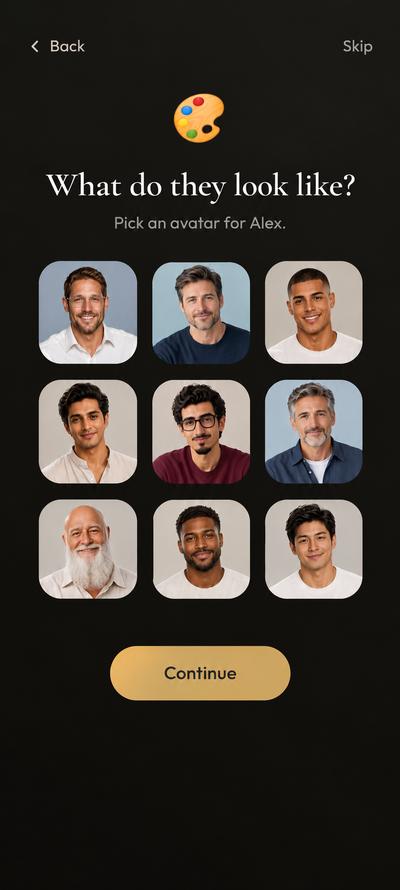
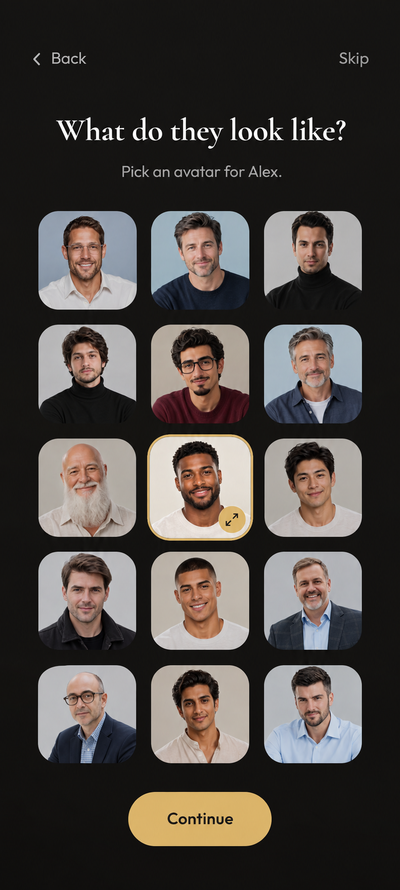
Use companion select screen in gallery and refresh marketing screenshots.
Replace the Beyond the conversation welcome phone with screen-companion-select-b and update attached app screen assets.

diff --git a/artifacts/mindness-launch/src/App.tsx b/artifacts/mindness-launch/src/App.tsx
@@ -281,7 +281,7 @@ function Home() {
           </div>
           <div className="gallery-stage reveal delay-1" aria-label="Mindness app screen preview">
             <div className="gallery-phone gallery-phone-welcome">
-              <Phone src={images.welcome} alt="Mindness welcome screen with talk, understand, and grow choices" />
+              <Phone src={images.companionSelectB} alt="Mindness companion selection screen" />
             </div>
             <div className="gallery-phone gallery-phone-practices">
               <Phone src={images.practices} alt="Mindness practices screen with breathing, gratitude, and journaling" />

diff --git a/artifacts/mindness-launch/src/lib/assets.ts b/artifacts/mindness-launch/src/lib/assets.ts
@@ -4,11 +4,11 @@ import heroImage from '@assets/hero.png';
 import introImage from '@assets/screen-companion-intro.png';
 import practicesImage from '@assets/screen-practices.png';
 import voiceImage from '@assets/screen-voice.png';
-import welcomeImage from '@assets/screen-welcome.png';
+import companionSelectBImage from '@assets/screen-companion-select-b.png';
 
 export const images = {
   hero: heroImage,
-  welcome: welcomeImage,
+  companionSelectB: companionSelectBImage,
   companionIntro: introImage,
   practices: practicesImage,
   chat: chatImage,
